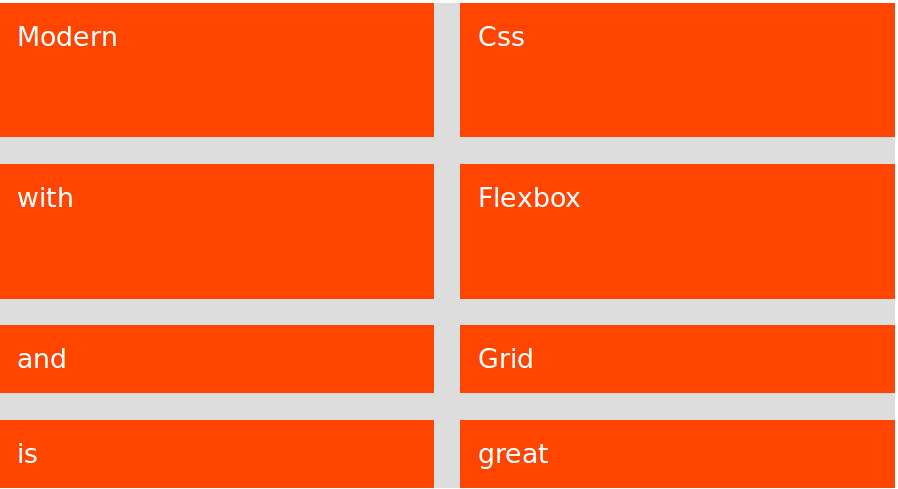
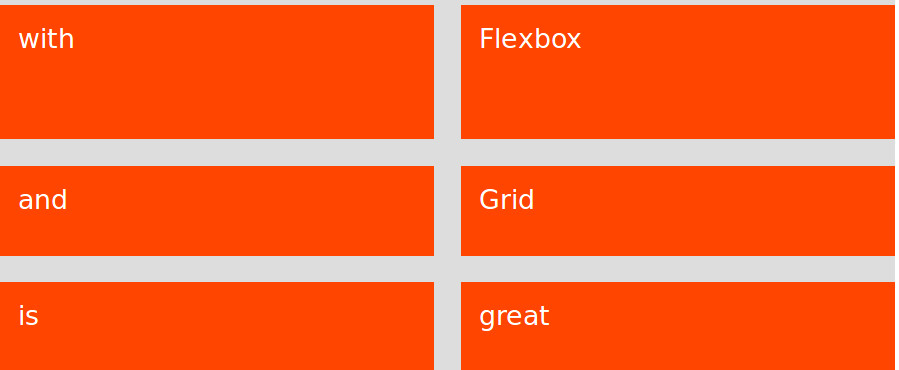
Style the implicit grid with grid-auto-rows declarationn

diff --git a/style.scss b/style.scss
@@ -8,6 +8,8 @@
   grid-template-columns: repeat(2, 1fr);
   grid-gap: 30px;
   
+  grid-auto-rows: 100px;
+  
   .item {
     padding: 20px;
     color: white;
